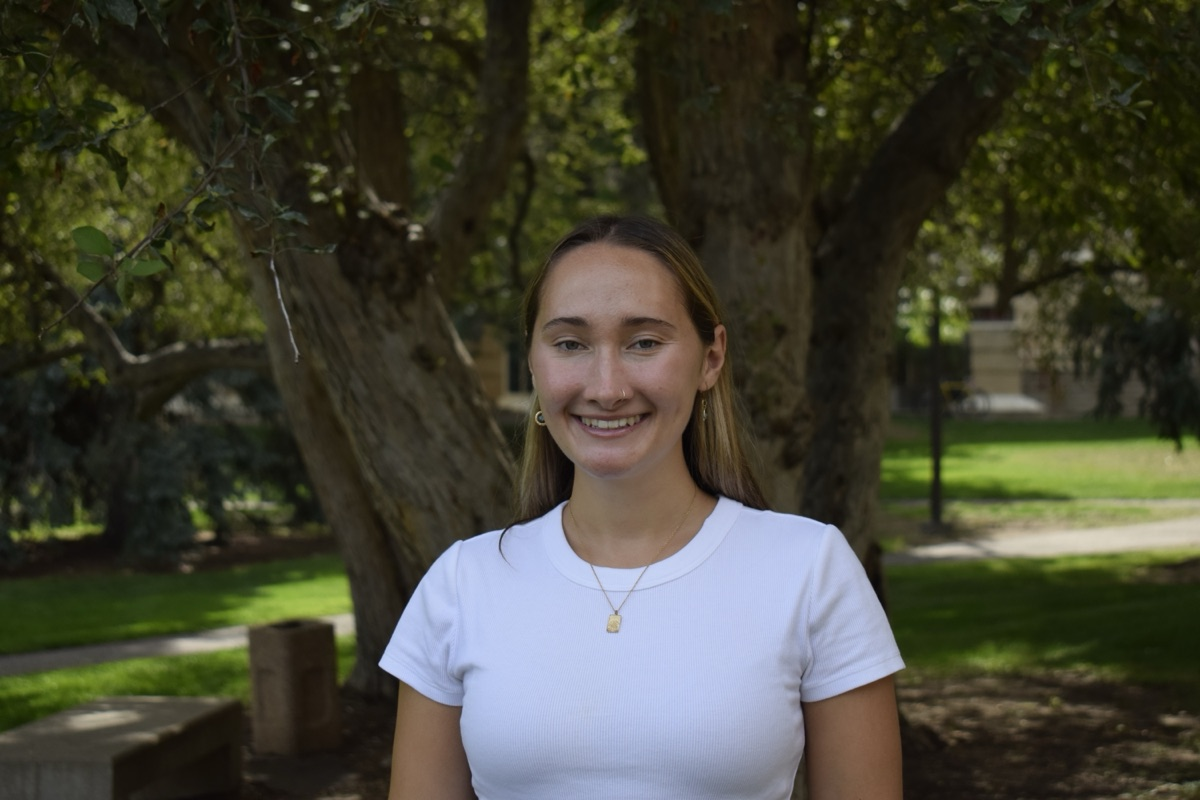
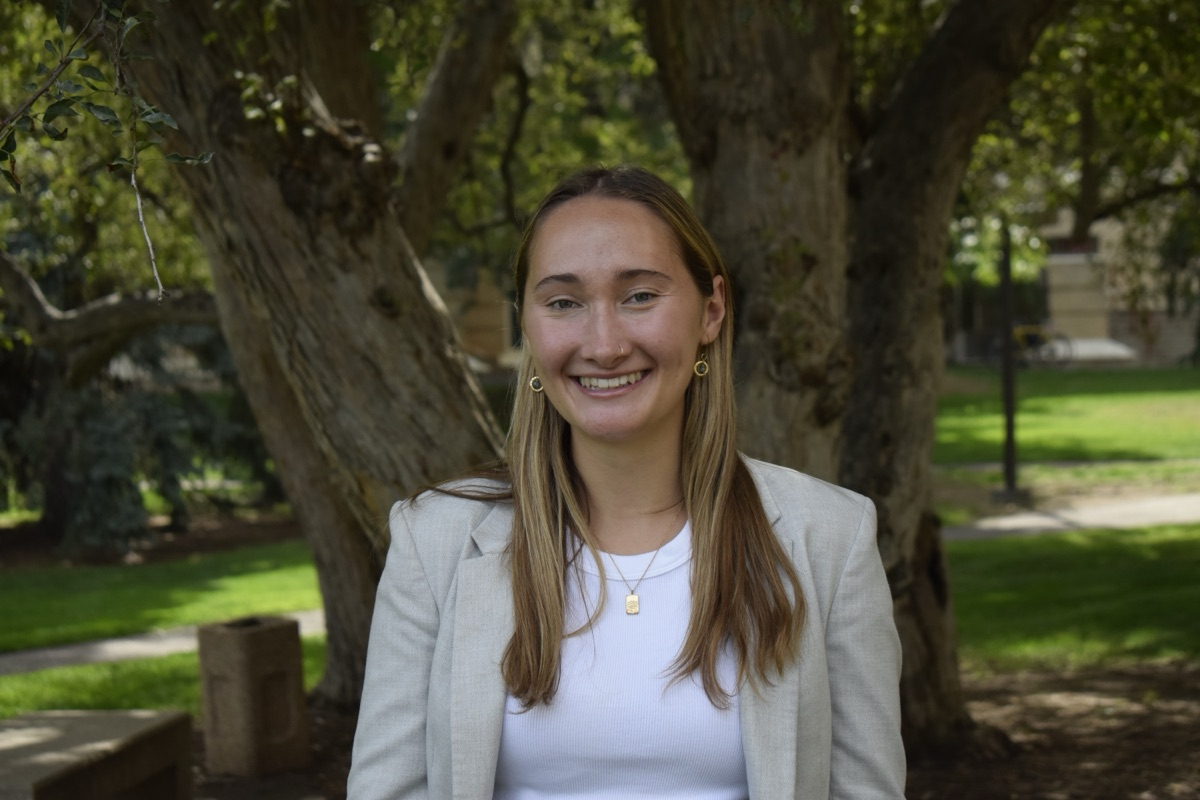
Add persistent contact access and update headshot
- Add a Contact dropdown to the sticky nav (email shown as a real
  clickable link, not a bare mailto that looks broken with no mail
  client configured) so it's reachable from anywhere on the page
- Add a matching icon-only contact button next to Menu in the mobile
  header, sized to exactly match Menu's height, so contact is
  reachable on mobile without opening the hamburger menu
- Make the wordmark truncate gracefully on the narrowest phones
  instead of letting the header overflow
- Swap in the latest headshot photo
- Update DESIGN.md to match

diff --git a/index.html b/index.html
@@ -23,7 +23,20 @@
   <div class="masthead__inner">
     <a href="#top" class="wordmark">Araceli Siedschlag</a>
 
-    <button class="menu-toggle" aria-expanded="false" aria-controls="nav-list">Menu</button>
+    <div class="mobile-controls">
+      <div class="mobile-contact">
+        <button class="mobile-contact-toggle" type="button" aria-expanded="false" aria-controls="mobile-contact-dropdown" aria-label="Contact">
+          <svg class="mobile-contact-icon" viewBox="0 0 24 24" fill="none" stroke="currentColor" stroke-width="1.5" aria-hidden="true">
+            <rect x="3" y="5" width="18" height="14"></rect>
+            <path d="M3 6l9 7 9-7"></path>
+          </svg>
+        </button>
+        <div class="nav__contact-dropdown" id="mobile-contact-dropdown" hidden>
+          <a href="mailto:aasiedschlag@mines.edu" class="nav__contact-email">aasiedschlag@mines.edu</a>
+        </div>
+      </div>
+      <button class="menu-toggle" aria-expanded="false" aria-controls="nav-list">Menu</button>
+    </div>
 
     <nav class="nav" id="nav-list">
       <a href="#professional" class="nav__item" data-nav="professional">
@@ -42,6 +55,15 @@
         <span>Personal</span>
         <span class="nav__line" aria-hidden="true"></span>
       </a>
+      <div class="nav__contact">
+        <button class="nav__item nav__contact-toggle" type="button" aria-expanded="false" aria-controls="contact-dropdown">
+          <span>Contact</span>
+          <span class="nav__line" aria-hidden="true"></span>
+        </button>
+        <div class="nav__contact-dropdown" id="contact-dropdown" hidden>
+          <a href="mailto:aasiedschlag@mines.edu" class="nav__contact-email">aasiedschlag@mines.edu</a>
+        </div>
+      </div>
       <a href="Araceli_Siedschlag_Resume.pdf" class="resume-btn">Resume</a>
     </nav>
   </div>
@@ -52,7 +74,7 @@
   <!-- hero -->
   <section class="hero">
     <div class="hero__media">
-      <img class="hero__headshot-img" src="images/headshot.jpg?v=3" alt="Portrait of Araceli Siedschlag">
+      <img class="hero__headshot-img" src="images/headshot.jpg?v=4" alt="Portrait of Araceli Siedschlag">
     </div>
     <div class="hero__content">
       <h1 class="hero__headline">Senior in computer science, <em>data science</em> by focus.</h1>
@@ -347,12 +369,43 @@
     menuToggle.setAttribute('aria-expanded', open ? 'true' : 'false');
   });
 
-  nav.querySelectorAll('.nav__item').forEach(function (link) {
+  nav.querySelectorAll('.nav__item:not(.nav__contact-toggle)').forEach(function (link) {
     link.addEventListener('click', function () {
       nav.classList.remove('nav--open');
       menuToggle.setAttribute('aria-expanded', 'false');
     });
   });
+
+  function wireContactToggle(toggleSelector, dropdownId, containerSelector) {
+    var toggle = document.querySelector(toggleSelector);
+    var dropdown = document.getElementById(dropdownId);
+    if (!toggle || !dropdown) return;
+
+    toggle.addEventListener('click', function (e) {
+      e.stopPropagation();
+      var isOpen = !dropdown.hidden;
+      dropdown.hidden = isOpen;
+      toggle.setAttribute('aria-expanded', isOpen ? 'false' : 'true');
+    });
+
+    document.addEventListener('click', function (e) {
+      if (!dropdown.hidden && !e.target.closest(containerSelector)) {
+        dropdown.hidden = true;
+        toggle.setAttribute('aria-expanded', 'false');
+      }
+    });
+
+    document.addEventListener('keydown', function (e) {
+      if (e.key === 'Escape' && !dropdown.hidden) {
+        dropdown.hidden = true;
+        toggle.setAttribute('aria-expanded', 'false');
+        toggle.focus();
+      }
+    });
+  }
+
+  wireContactToggle('.nav__contact-toggle', 'contact-dropdown', '.nav__contact');
+  wireContactToggle('.mobile-contact-toggle', 'mobile-contact-dropdown', '.mobile-contact');
 
   var sections = Array.prototype.slice.call(document.querySelectorAll('main .section'));
   var navLinks = Array.prototype.slice.call(document.querySelectorAll('.nav__item'));

diff --git a/style.css b/style.css
@@ -89,20 +89,53 @@ a { color: inherit; }
   text-decoration: none;
   color: var(--ink);
   white-space: nowrap;
+  overflow: hidden;
+  text-overflow: ellipsis;
+  min-width: 0;
   transition: color 0.15s ease;
 }
 
 .wordmark:hover { color: var(--blue); }
 
+.mobile-controls {
+  display: none;
+  align-items: center;
+  gap: 10px;
+  flex-shrink: 0;
+}
+
+.mobile-contact { position: relative; }
+
+.mobile-contact-toggle {
+  display: flex;
+  align-items: center;
+  justify-content: center;
+  width: 38px;
+  height: 38px;
+  background: none;
+  border: 1px solid var(--ink);
+  cursor: pointer;
+  color: var(--ink);
+  padding: 0;
+  transition: color 0.15s ease, border-color 0.15s ease;
+}
+
+.mobile-contact-toggle:hover,
+.mobile-contact-toggle[aria-expanded="true"] { color: var(--blue); border-color: var(--blue); }
+
+.mobile-contact-icon { width: 18px; height: 18px; }
+
 .menu-toggle {
   display: none;
+  align-items: center;
+  height: 38px;
   font-family: var(--font-body);
   font-size: 11px;
   letter-spacing: 0.12em;
   text-transform: uppercase;
   background: none;
   border: 1px solid var(--ink);
-  padding: 8px 14px;
+  padding: 0 14px;
   cursor: pointer;
   color: var(--ink);
   transition: color 0.15s ease, border-color 0.15s ease;
@@ -139,6 +172,41 @@ a { color: inherit; }
 .nav__line { width: 44px; height: 2px; background: var(--muted); transition: background 0.15s ease; }
 .nav__item:hover .nav__line { background: var(--ink); }
 .nav__item--active .nav__line { background: var(--blue); height: 3px; }
+
+.nav__contact { position: relative; }
+
+.nav__contact-toggle {
+  background: none;
+  border: none;
+  padding: 0;
+  cursor: pointer;
+  font-family: var(--font-body);
+}
+
+.nav__contact-toggle[aria-expanded="true"] { color: var(--ink); }
+.nav__contact-toggle[aria-expanded="true"] .nav__line { background: var(--blue); height: 3px; }
+
+.nav__contact-dropdown {
+  position: absolute;
+  top: calc(100% + 18px);
+  right: 0;
+  z-index: 10;
+  background: #fff;
+  border: 1px solid var(--ink);
+  padding: 14px 18px;
+  white-space: nowrap;
+}
+
+.nav__contact-dropdown[hidden] { display: none; }
+
+.nav__contact-email {
+  font-family: var(--font-body);
+  font-size: 13px;
+  color: var(--ink);
+  text-decoration: none;
+}
+
+.nav__contact-email:hover { color: var(--blue); }
 
 .resume-btn {
   font-family: var(--font-body);
@@ -579,7 +647,18 @@ a { color: inherit; }
 
 /* ---------- responsive ---------- */
 @media (max-width: 860px) {
-  .menu-toggle { display: inline-block; }
+  .mobile-controls { display: flex; }
+  .menu-toggle { display: inline-flex; }
+
+  .mobile-contact .nav__contact-dropdown {
+    position: absolute;
+    top: calc(100% + 12px);
+    right: 0;
+    margin-top: 0;
+    background: #fff;
+    border: 1px solid var(--ink);
+    padding: 14px 18px;
+  }
 
   .nav {
     display: none;
@@ -599,6 +678,15 @@ a { color: inherit; }
 
   .nav__item { flex-direction: row; gap: 10px; align-items: center; }
   .nav__line { width: 32px; }
+
+  .nav__contact { width: 100%; }
+  .nav__contact-dropdown {
+    position: static;
+    margin-top: 10px;
+    background: transparent;
+    border: none;
+    padding: 0;
+  }
 
   .hero { padding: 64px 20px 56px; flex-direction: column; align-items: stretch; gap: 28px; }
   .hero__media { flex: none; max-width: 220px; margin: 0 auto; }

diff --git a/DESIGN.md b/DESIGN.md
@@ -238,9 +238,11 @@ Every interactive and static component shares the same terse, utilitarian charac
 
 ### Navigation
 - **Style:** Uppercase 11px mono labels, 0.12em letter-spacing, Muted-gray by default. The active section's label goes ink with a thickened (3px) Signal Blue underline; inactive items keep a thin 2px muted-gray underline. Hover goes ink with an ink underline. (Distinction is color-only, not opacity — opacity-dimmed gray text failed contrast and was fixed during polish.)
-- **Items:** Professional, Coursework, Projects, Personal (each scroll-spied against its section), plus the separately-styled Resume button. A `mailto:` contact link was tried here and moved instead — see the hero contact link below; a `mailto:` link in the nav is easy to mistake for broken since nothing visibly happens without a configured mail client, and it's also the one nav item that isn't tied to a page section a visitor is trying to reach.
+- **Items:** Professional, Coursework, Projects, Personal (each scroll-spied against its section), a Contact dropdown, and the separately-styled Resume button.
+- **Contact dropdown:** A bare `mailto:` nav link was tried first and removed — it's easy to mistake for broken since nothing visibly happens without a configured mail client. The current version is a button (`nav__contact-toggle`, styled and underlined like a normal nav item) that toggles a bordered dropdown panel (`nav__contact-dropdown`) showing the email as a real, selectable/clickable text link. It always gives visible feedback on click regardless of mail-client setup, and it lives in the sticky masthead, so it's reachable from anywhere on the page without scrolling — no separate floating action button needed. Closes on outside click, Escape (returning focus to the toggle), or navigating to another section.
+- **Mobile header contact icon:** Text "Contact" plus "Menu" plus the wordmark doesn't fit in the mobile header row (~406px needed at typical sizes vs. 375px on the smallest common phone) — a text label was tried and rejected for width. Instead, a small drawn envelope icon (`mobile-contact-toggle`, plain stroke SVG, no icon-font/emoji) sits directly beside "Menu" in a `mobile-controls` wrapper, always visible without opening the hamburger menu, toggling the same dropdown pattern. Both buttons share an explicit 38px height (rather than each deriving its own height from padding/line-height, which happened to land at slightly different values) so the two boxes read as one matched pair, not two different-sized controls next to each other. Both mobile-controls buttons are `flex-shrink: 0`; the wordmark is the one element allowed to truncate (`text-overflow: ellipsis`) if a viewport is narrower than all three items combined — the icon and Menu button never lose space to the name.
 - **Overflow:** The desktop nav wraps (`flex-wrap: wrap`, right-aligned) rather than overflowing if a future item ever pushes total width past what the masthead can hold before the mobile breakpoint kicks in.
-- **Mobile:** Below 860px, the nav collapses behind a bordered "Menu" toggle button and opens as a full-width paper panel with left-aligned, horizontally-laid-out items.
+- **Mobile:** Below 860px, the nav collapses behind a bordered "Menu" toggle button and opens as a full-width paper panel with left-aligned, horizontally-laid-out items; the Contact dropdown becomes a borderless, transparent inline reveal in that same panel rather than a floating bordered card.
 
 ### List Rows (timeline / project rows)
 A signature recurring pattern: a small square ink dot, a title in Signal Blue, a muted secondary line, and a regular-weight description in Body color, separated from the next row by a faint hairline rule. Used identically for the Professional timeline and the Projects list — the system's primary way of presenting "one record, then the next." The title and description are set in Roboto (the Title and Body-dense roles); the dot, date, and employer/kicker line around them stay mono — this is the one place in the system where the reading content itself, not just a headline, breaks from the mono default. Project rows may close with an optional `project-row__link` line (11px, uppercase, muted, e.g. "Code available on request") when no public repo/demo exists yet — same Label treatment as everywhere else, not a distinct "coming soon" style.
